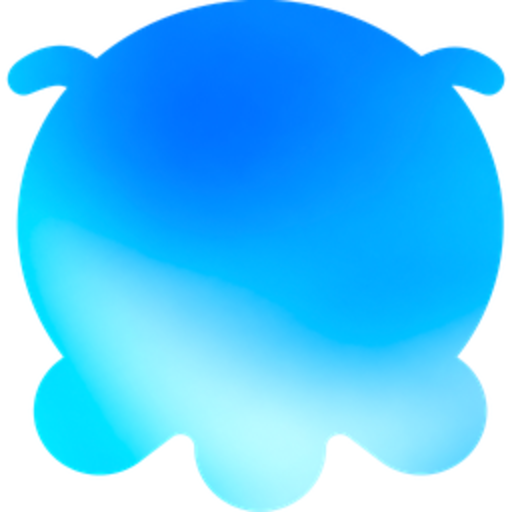
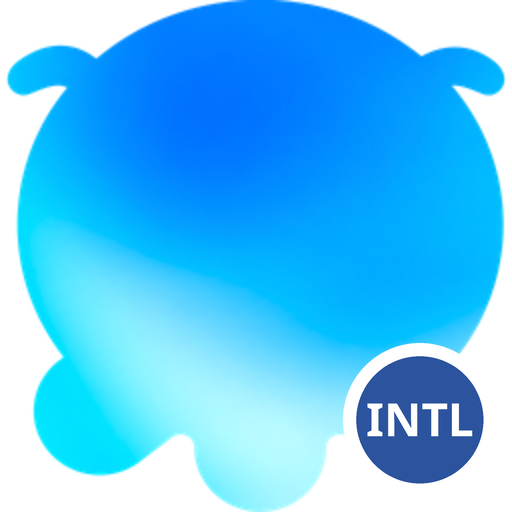
upgpkg: minimax-code-intl-bin 3.1.12-1

Changed region(s): [[0.6562, 0.6562, 0.9688, 0.9688]]

diff --git a/patch-region.js b/patch-region.js
@@ -1,12 +1,14 @@
 #!/usr/bin/env node
 // Pin the MiniMax Code desktop bundle to one region and isolate its profile.
 //
-// The upstream Windows package ships a mainland-China build (REGION:"cn",
-// agent.minimax.cn). The renderer chunks inline every NEXT_PUBLIC_* URL and
-// carry a duplicated region module (webpack module 58291) exporting `a1`
-// (isOverseas, false). The intl build flips that flag and rewrites the inlined
-// endpoints; the cn build keeps the upstream values untouched. Both builds
-// rewrite package.json's name so Electron derives a distinct userData dir.
+// The two download channels carry region-specific installers that inline every
+// NEXT_PUBLIC_* URL. Through 3.1.11 the channel used here shipped the
+// mainland-China build (REGION:"cn", agent.minimax.cn) plus a duplicated region
+// module (webpack module 58291) exporting `a1` (isOverseas, false); the intl
+// build flipped that flag and rewrote the inlined endpoints. 3.1.12 already
+// ships the overseas build and dropped that module, so the flip is optional and
+// the region is asserted on .env.local. Both builds rewrite package.json's name
+// so Electron derives a distinct userData dir.
 //
 // The archive is rewritten in place (packed entries only, offsets recomputed)
 // because `asar extract` fails on this payload: its header marks Windows/macOS
@@ -83,24 +85,38 @@ function readEntry(fd, dataOffset, entry) {
 }
 
 let patched = 0;
+let regionModuleSeen = 0;
 let regionFlagFlipped = 0;
+let regionAlreadyOverseas = 0;
 
 function patchIntl(rel, source) {
   let out = source;
   for (const [from, to] of INTL_REPLACEMENTS) {
     if (out.includes(from)) out = out.split(from).join(to);
   }
-  // Flip the duplicated region module's a1/isOverseas export. Minified
-  // variable names differ per chunk, so resolve the export name first.
+  // Up to 3.1.11 the Windows installer carried a duplicated region module
+  // (webpack module 58291) exporting a1/isOverseas; the overseas build needs
+  // that flag flipped. Minified variable names differ per chunk, so resolve
+  // the export name first. 3.1.12 ships separate per-region installers and has
+  // no such module, in which case the region is asserted on .env.local below.
   if (out.includes('58291:function')) {
+    regionModuleSeen++;
     const start = out.indexOf('58291:function');
     const match = out.slice(start, start + 1200).match(/a1:function\(\)\{return (\w+)\}/);
     if (!match) throw new Error(`a1 export not found in ${rel}`);
     const name = match[1];
-    const idx = out.indexOf(`${name}=!1`, start);
-    if (idx < 0) throw new Error(`a1 assignment not found in ${rel}`);
-    out = out.slice(0, idx) + `${name}=!0` + out.slice(idx + name.length + 3);
-    regionFlagFlipped++;
+    const assign = new RegExp(`(?<![\\w$])${name}=!(\\d)`);
+    const found = assign.exec(out.slice(start));
+    if (!found) throw new Error(`a1 assignment not found in ${rel}`);
+    if (found[1] === '0') {
+      regionAlreadyOverseas++;
+    } else if (found[1] === '1') {
+      const idx = start + found.index;
+      out = out.slice(0, idx) + `${name}=!0` + out.slice(idx + name.length + 3);
+      regionFlagFlipped++;
+    } else {
+      throw new Error(`unexpected a1 assignment in ${rel}`);
+    }
   }
   if (out !== source) patched++;
   return out;
@@ -130,6 +146,10 @@ function main() {
     else if (mode === 'intl' && (isEnv || isJs)) out = patchIntl(item.rel, source);
     if (out !== source) {
       item.patched = Buffer.from(out, 'utf8');
+    } else if (mode === 'intl' && isEnv) {
+      // Already-overseas builds need no rewrite; keep the entry marked so the
+      // post-check below can verify its contents.
+      item.patched = Buffer.from(out, 'utf8');
     }
   }
 
@@ -139,11 +159,17 @@ function main() {
   }
 
   if (mode === 'intl') {
-    if (regionFlagFlipped === 0) throw new Error('no region module (58291) was flipped');
+    if (regionModuleSeen > 0 && regionFlagFlipped === 0 && regionAlreadyOverseas === 0) {
+      throw new Error('region module (58291) found but neither flipped nor overseas');
+    }
     const envItem = packed.find((i) => i.rel === '.env.local');
-    if (!envItem || !envItem.patched) throw new Error('.env.local was not rewritten');
-    if (!envItem.patched.toString('utf8').includes('https://agent.minimax.io')) {
+    if (!envItem || !envItem.patched) throw new Error('.env.local missing from the payload');
+    const envText = envItem.patched.toString('utf8');
+    if (!envText.includes('https://agent.minimax.io')) {
       throw new Error('.env.local still points at the cn domain');
+    }
+    if (envText.includes('minimax.cn')) {
+      throw new Error('.env.local still references minimax.cn endpoints');
     }
   }
 
@@ -204,7 +230,7 @@ function main() {
   fs.chmodSync(tmp, 0o644);
   fs.renameSync(tmp, asarPath);
 
-  console.log(`patched ${patched} packed entry(s) for ${mode} (region modules flipped: ${regionFlagFlipped})`);
+  console.log(`patched ${patched} packed entry(s) for ${mode} (region modules: ${regionModuleSeen}, flipped: ${regionFlagFlipped}, already overseas: ${regionAlreadyOverseas})`);
 }
 
 try {
